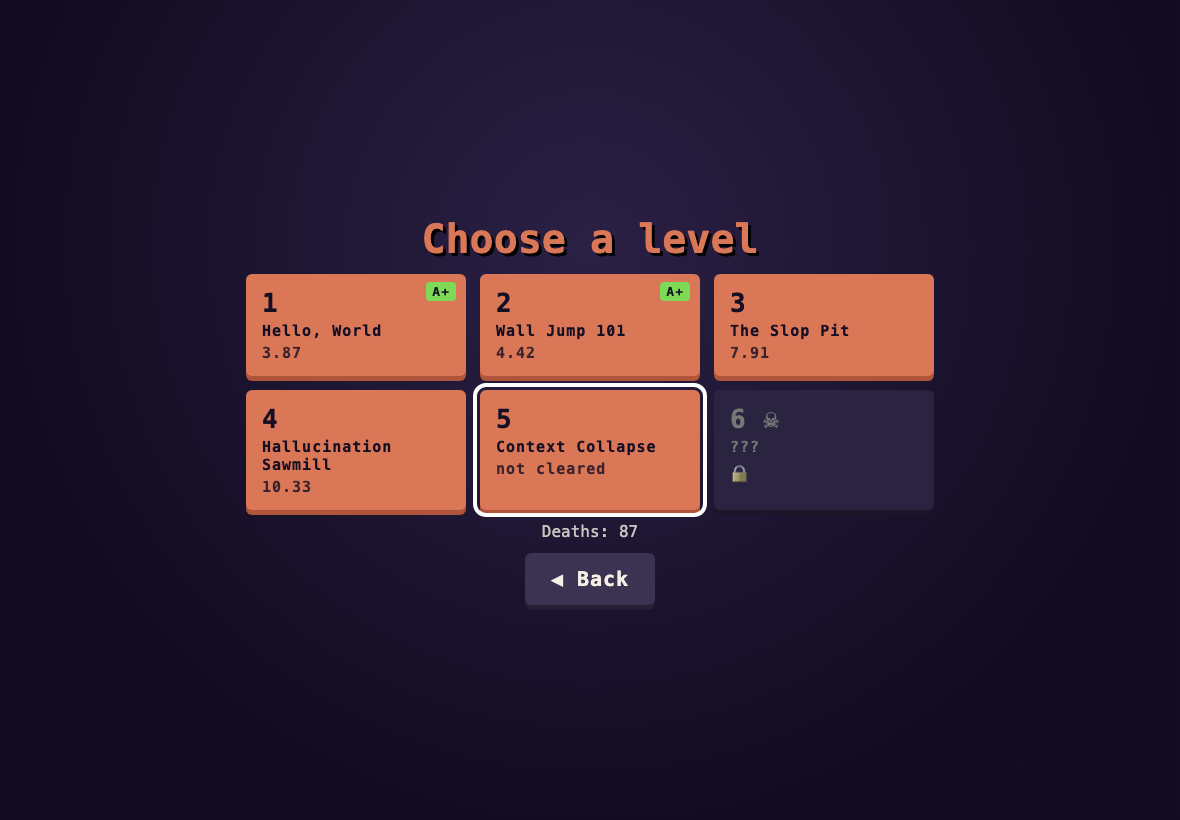
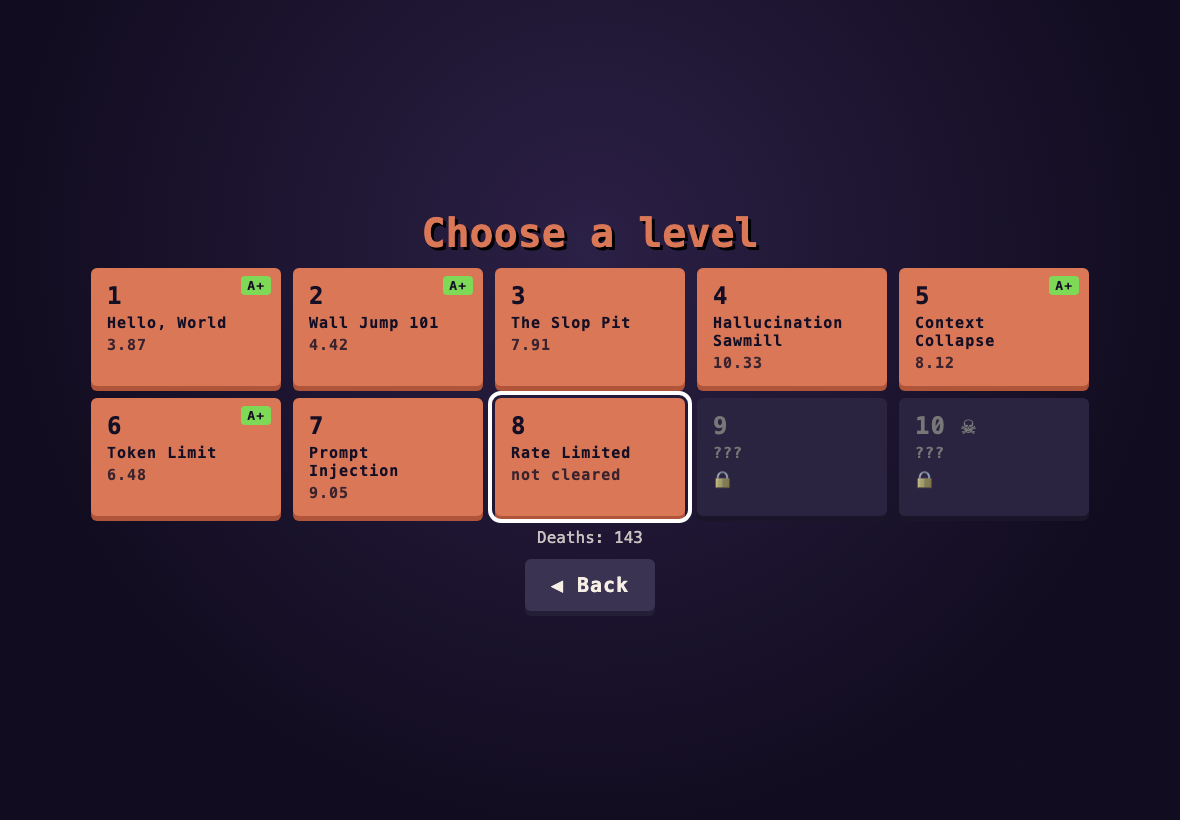
Ten levels: Token Limit, Prompt Injection, Rate Limited, Merge Conflict
- Four new levels before the boss, each with its own theme, music
  track, tips and par time; The Hater moves to level 10
- Solver now replays moving saws and walkers on the game's timeline
- Level select is a 5x2 grid; levels you've cleared stay unlocked
- README: level table and a 'How it's built' section on the code
- Bump cache to v8

Changed region(s): [[0.061, 0.2439, 0.9458, 0.7622], [0.7627, 0.5183, 0.8237, 0.5488], [0.7627, 0.5793, 0.7932, 0.6098]]

diff --git a/src/levels.js b/src/levels.js
@@ -155,6 +155,170 @@ export const LEVELS = [
     ],
   },
   {
+    id: 'token-limit',
+    tips: [
+      "Climb the right-hand shaft by jumping between its two walls.",
+      "Near the saw in the shaft, kick off the left wall only.",
+      "At the top, wait for the circling saw to swing away before you cross.",
+    ],
+    name: "Token Limit",
+    hint: "Climb before you run out of context.",
+    theme: 6,
+    par: 7.0,
+    saws: [
+      {orbit:  [11,  8],  radius:  2,  speed:  2.2},
+    ],
+    map: [
+      '######################',
+      '#....................#',
+      '#............G.......#',
+      '#.........######.....#',
+      '#....................#',
+      '#....###.............#',
+      '#....................#',
+      '###..................#',
+      '#....................#',
+      '#....###.............#',
+      '#....................#',
+      '#.........###........#',
+      '#...............#....#',
+      '#...............#....#',
+      '#...............#....#',
+      '#...............#....#',
+      '#...............#....#',
+      '#...............#....#',
+      '#...............#...o#',
+      '#...............#....#',
+      '#...............#....#',
+      '#...............#....#',
+      '#...............#....#',
+      '#...............#....#',
+      '#...............#....#',
+      '#................#####',
+      '#....................#',
+      '#...........###......#',
+      '#....................#',
+      '#......###...........#',
+      '#....................#',
+      '#S...................#',
+      '#####^^^^^^^^^^^^#####',
+      '######################',
+    ],
+  },
+  {
+    id: 'prompt-injection',
+    tips: [
+      "Jump over walkers as they turn around, not when they're coming at you.",
+      "Watch the saw over the second pit: go when it's at the top.",
+      "The sideways saw over the wide pit is fastest to pass right behind it.",
+    ],
+    name: "Prompt Injection",
+    hint: "Ignore all previous instructions. Run.",
+    theme: 7,
+    par: 7.5,
+    saws: [
+      {path:  [[24,  9],  [24,  13]],  speed:  60},
+      {path:  [[35,  11],  [42,  11]],  speed:  70},
+    ],
+    map: [
+      '################################################################',
+      '#..............................................................#',
+      '#..............................................................#',
+      '#..............................................................#',
+      '#..............................................................#',
+      '#..............................................................#',
+      '#..............................................................#',
+      '#..............................................................#',
+      '#..............................................................#',
+      '#.............................b.............................G..#',
+      '#...........................#####........................#######',
+      '#..............................................................#',
+      '#....................................................##........#',
+      '#S....p..........b.............p..............b................#',
+      '##########^^^^########^^^^^#########^^^^^^########^^^^^#########',
+      '################################################################',
+    ],
+  },
+  {
+    id: 'rate-limited',
+    tips: [
+      "Crumbling blocks give way fast. Jump the moment you land.",
+      "The two solid ledges are your only safe rest stops.",
+      "Time the circling saws from the solid ledges, then go.",
+    ],
+    name: "Rate Limited",
+    hint: "Too many requests. Don\u2019t stop on the blocks.",
+    theme: 8,
+    par: 7.0,
+    saws: [
+      {orbit:  [24,  8],  radius:  2,  speed:  2.5},
+      {orbit:  [40,  10],  radius:  2.5,  speed:  2.0,  phase:  1.5},
+    ],
+    map: [
+      '############################################################',
+      '#..........................................................#',
+      '#..........................................................#',
+      '#..........................................................#',
+      '#..........................................................#',
+      '#..........................................................#',
+      '#..........................................................#',
+      '#..........................................................#',
+      '#..........................................................#',
+      '#..........................................................#',
+      '#..........................................................#',
+      '#..........................cc.............###..............#',
+      '#...............cc...###........cc.............cc..........#',
+      '#..........cc........................cc....................#',
+      '#.....cc...........................................cc......#',
+      '#S.......................................................G.#',
+      '####^^^^^^^^^^^^^^^^^^^^^^^^^^^^^^^^^^^^^^^^^^^^^^^^^^######',
+      '############################################################',
+    ],
+  },
+  {
+    id: 'merge-conflict',
+    tips: [
+      "Hop the platforms over the slop, and wait for the blob to walk away.",
+      "Enter the shaft from below its left wall, then climb the left side past the saw.",
+      "At the top, jump the protester when the sweeping saw is on the far side.",
+    ],
+    name: "Merge Conflict",
+    hint: "Everything at once. Resolve it.",
+    theme: 9,
+    par: 9.0,
+    saws: [
+      {path:  [[31,  5],  [40,  5]],  speed:  70},
+    ],
+    map: [
+      '################################################',
+      '#..............................................#',
+      '#..............................................#',
+      '#..............................................#',
+      '#..............................................#',
+      '#..............................................#',
+      '#..............................................#',
+      '#..............................G....p..........#',
+      '#.............................#############....#',
+      '#.........................................#....#',
+      '#.........................................#....#',
+      '#.........................................#....#',
+      '#.........................................#....#',
+      '#.........................................#....#',
+      '#.........................................#....#',
+      '#.........................................#...o#',
+      '#.........................................#....#',
+      '#.........................................#....#',
+      '#.........................................#....#',
+      '#...............###.........###...........#....#',
+      '#......................b..................#....#',
+      '#.........###.........###.................#....#',
+      '#..............................................#',
+      '#S.............................................#',
+      '########^^^^^^^^^^^^^^^^^^^^^^^^^^^^^^##########',
+      '################################################',
+    ],
+  },
+  {
     id: 'the-hater',
     tips: [
       "The Hater only throws when you get close, and he aims where you're heading.",

diff --git a/src/music.js b/src/music.js
@@ -51,6 +51,30 @@ const TRACKS = {
     mel: ['C5 - Eb5 - G5 - - Eb5', 'Ab4 - C5 - Eb5 - - C5', 'Bb4 - D5 - F5 - - D5', 'B4 - D5 - G5 - - -',
       'G5 - Eb5 C5 - G5 Ab5 G5', 'Ab5 - Eb5 C5 - Ab4 C5 Eb5', 'F5 - D5 Bb4 - F5 G5 F5', 'D5 - B4 - G4 - - -'],
   },
+  'token-limit': {
+    bpm: 148, chords: 'Am Em F G', arp: true,
+    bass: 'x.x.x.x.o.x.x.x.', k: 'x...x...x...x...', s: '....x.......x...', h: 'x.x.x.x.x.x.x.x.',
+    mel: ['A5 - E5 - A5 B5 C6 -', 'B5 - G5 - E5 - G5 -', 'A5 - F5 - C5 - F5 A5', 'G5 - - D5 G5 - B5 -',
+      'C6 - B5 A5 - E5 A5 -', 'B5 - A5 G5 - E5 - -', 'F5 A5 C6 - A5 - F5 -', 'G5 - B5 - D6 - - -'],
+  },
+  'prompt-injection': {
+    bpm: 136, chords: 'Dm Am Bb C', arp: false,
+    bass: 'x..x..x.x..x..x.', k: 'x..x..x.x.......', s: '....x.......x...', h: 'x.x.x.x.x.x.x.xx',
+    mel: ['D5 - F5 - A5 - . D6', 'C6 - A5 - E5 - . A5', 'Bb5 - F5 - D5 - F5 -', 'C6 - G5 - E5 - C5 -',
+      'D5 E5 F5 - A5 - G5 F5', 'E5 - C5 - A4 - - -', 'D5 F5 Bb5 - A5 G5 F5 -', 'G5 - E5 - C6 - - -'],
+  },
+  'rate-limited': {
+    bpm: 156, chords: 'Em G D C', arp: true,
+    bass: 'x.x.x.x.x.x.x.x.', k: 'x...x...x...x...', s: '....x.......x...', h: 'xxxxxxxxxxxxxxxx',
+    mel: ['E5 G5 B5 - G5 - E5 -', 'D5 G5 B5 - D6 - B5 -', 'D5 F#5 A5 - F#5 - D5 -', 'C5 E5 G5 - E5 - C5 -',
+      'B5 - A5 G5 - E5 G5 -', 'B5 - D6 - B5 - G5 -', 'A5 - F#5 D5 - A5 F#5 -', 'G5 - E5 - C5 - E5 -'],
+  },
+  'merge-conflict': {
+    bpm: 164, chords: 'F#m D A E', arp: true,
+    bass: 'x.xxx.x.x.xxx.x.', k: 'x..x..x...x..x..', s: '....x.......x...', h: 'x.xxx.xxx.xxx.xx',
+    mel: ['F#5 - A5 - C#6 - A5 F#5', 'D5 - F#5 - A5 - D6 -', 'C#6 - A5 - E5 - A5 -', 'B5 - G#5 - E5 - B4 -',
+      'F#5 A5 C#6 - E6 - C#6 A5', 'F#5 - D5 - A4 - D5 -', 'E5 - A5 - C#6 - E6 -', 'G#5 - B5 - E6 - - -'],
+  },
   'the-hater': {
     bpm: 172, chords: 'Em C Am B', arp: true,
     bass: 'xoxoxoxoxoxoxoxo', k: 'x..xx...x..xx...', s: '....x.......x...', h: 'xxxxxxxxxxxxxxxx',

diff --git a/style.css b/style.css
@@ -63,12 +63,12 @@ h2 { margin: 0; font-size: clamp(26px, 4vw, 40px); color: var(--orange); text-sh
 .row { display: flex; gap: 14px; margin-top: 10px; flex-wrap: wrap; justify-content: center; }
 .col { display: flex; flex-direction: column; gap: 14px; min-width: 260px; }
 
-#level-grid { display: grid; grid-template-columns: repeat(3, minmax(160px, 220px)); gap: 14px; }
+#level-grid { display: grid; grid-template-columns: repeat(5, minmax(120px, 190px)); gap: 12px; }
 .level-card {
   position: relative; display: flex; flex-direction: column; align-items: flex-start; gap: 4px;
   padding: 14px 16px; text-align: left; font-size: 15px; min-height: 96px;
 }
-.level-card .num { font-size: 26px; }
+.level-card .num { font-size: 24px; }
 .level-card .time { font-weight: 600; opacity: 0.8; }
 .level-card .grade { position: absolute; top: 8px; right: 10px; background: #7ed957; color: var(--ink); padding: 2px 6px; border-radius: 4px; font-size: 13px; }
 .level-card.locked { background: #2a2440; color: #777; box-shadow: 0 5px 0 #1a1528; cursor: default; }
@@ -142,8 +142,8 @@ h2 { margin: 0; font-size: clamp(26px, 4vw, 40px); color: var(--orange); text-sh
   .disclaimer { font-size: 10px; margin: 0; }
   .controls, .story { font-size: 11px; }
   #title-hero { width: 70px; height: 60px; }
-  #level-grid { grid-template-columns: repeat(3, minmax(130px, 180px)); gap: 8px; }
-  .level-card { min-height: 70px; padding: 8px 10px; }
+  #level-grid { grid-template-columns: repeat(5, minmax(100px, 150px)); gap: 8px; }
+  .level-card { min-height: 64px; padding: 8px 10px; font-size: 12px; }
   .tbtn { width: 84px; height: 84px; }
   #t-right { left: calc(120px + var(--safe-l)); }
   #t-jump { width: 110px; height: 110px; }

diff --git a/src/main.js b/src/main.js
@@ -17,6 +17,10 @@ const THEMES = [
   { sky: ['#24140f', '#4a2a1c'], solid: '#5a3e33', top: '#c48a6a', dot: '#6b4b3f' },
   { sky: ['#101826', '#2a2140'], solid: '#3b3552', top: '#9a8fd0', dot: '#4a4366' },
   { sky: ['#2a0d12', '#4d1a22'], solid: '#4a2a30', top: '#d0707a', dot: '#5c363d' },
+  { sky: ['#0d1f22', '#163a3f'], solid: '#2b4f53', top: '#6fc2bf', dot: '#365f63' },
+  { sky: ['#1a1030', '#3a1d4a'], solid: '#4a2e5c', top: '#c27fd6', dot: '#5a3a6e' },
+  { sky: ['#14161f', '#2a2a3d'], solid: '#3a3a52', top: '#d0a85c', dot: '#47475f' },
+  { sky: ['#101a14', '#1f3326'], solid: '#2f4a38', top: '#8fc98a', dot: '#3a5a44' },
 ];
 const DEATH_LINES = {
   slop: ['Drowned in slop.', 'Too much slop.', 'Slop happens.'],
@@ -148,8 +152,8 @@ function openSelect() {
   grid.innerHTML = '';
   LEVELS.forEach((def, i) => {
     const b = document.createElement('button');
-    const locked = i >= save.unlocked;
     const best = save.best[def.id];
+    const locked = i >= save.unlocked && best == null; // levels you've cleared stay open
     b.className = 'level-card' + (locked ? ' locked' : '') + (best != null && best <= def.par ? ' aplus' : '');
     b.disabled = locked;
     b.innerHTML = `<span class="num">${i + 1}${def.boss ? ' ☠' : ''}</span><span class="name">${locked ? '???' : def.name}</span>`

diff --git a/sw.js b/sw.js
@@ -1,5 +1,5 @@
 // Offline support: serve from cache, refresh the cache in the background.
-const CACHE = 'super-claude-boy-v7';
+const CACHE = 'super-claude-boy-v8';
 const ASSETS = [
   './', './index.html', './style.css', './manifest.webmanifest',
   './src/main.js', './src/physics.js', './src/levels.js', './src/sprites.js', './src/audio.js', './src/input.js', './src/music.js',

diff --git a/index.html b/index.html
@@ -54,7 +54,7 @@
     <p class="sub intro-hint">Tap or press A to continue</p>
   </section>
 
-  <section id="select" class="screen" data-cols="3" hidden>
+  <section id="select" class="screen" data-cols="5" hidden>
     <h2>Choose a level</h2>
     <div id="level-grid"></div>
     <p id="total"></p>

diff --git a/README.md b/README.md
@@ -53,6 +53,89 @@ Die more than three times on a level and the game starts showing tips for it.
 - Each level saves your best time and shows a **ghost** of that run.
 - Beat the par time for an **A+**.
 
+## Levels
+
+Ten levels, then the credits:
+
+| # | Level | What it teaches |
+|---|---|---|
+| 1 | Hello, World | Running, variable-height jumps, the first slop pool |
+| 2 | Wall Jump 101 | Wall slides and wall jumps in two shafts |
+| 3 | The Slop Pit | Slop blobs and protesters that patrol and turn at edges |
+| 4 | Hallucination Sawmill | Static, moving and orbiting saws |
+| 5 | Context Collapse | Crumbling blocks over a slop lake |
+| 6 | Token Limit | A tall climb up a shaft guarded by a saw |
+| 7 | Prompt Injection | A long run past walkers with saws over the pits |
+| 8 | Rate Limited | A chain of crumbling blocks under orbiting saws |
+| 9 | Merge Conflict | Everything at once, right before the boss |
+| 10 | The Hater | The boss throws signs and tomatoes while you climb to Byte |
+
+## How it's built
+
+Plain HTML, CSS and JavaScript (ES modules) drawing on a single `<canvas>`. There is no engine, no framework, no build step and no dependencies: about 2,700 lines in total.
+
+```
+index.html        screens (title, intro, level select, results, pause, ending) as plain HTML
+style.css         layout, touch controls, safe areas for the iPad notch and home bar
+src/main.js       game loop, rendering, camera, screens, saving, ghosts, intro and outro scenes
+src/physics.js    level parsing, movement, collision, saws, walkers, the boss (no DOM)
+src/levels.js     the ten levels as text maps, plus hints, tips and par times
+src/sprites.js    pixel-art sprites written as strings, baked into small canvases at startup
+src/input.js      touch zones, keyboard and gamepad, merged into one input state
+src/audio.js      sound effects synthesized with Web Audio
+src/music.js      the soundtrack: note patterns and a small step sequencer
+sw.js             service worker for offline play
+tools/solve.mjs   proves every level can be finished
+```
+
+### The game loop and physics
+
+- **Fixed timestep.** The simulation always advances in steps of 1/120 of a second, however fast the screen refreshes. Each frame simply draws the latest state. Because each step is identical on every device, the same inputs always produce the same run, which is what makes times fair and ghosts possible.
+- **The timer counts steps, not wall-clock time.** A run's time is `steps × 1/120 s`, so a dropped frame can't cost you a record. The world (saws, walkers) stays frozen until your first input, and the timer starts with it.
+- **Movement** (`stepPlayer` in `src/physics.js`) uses hand-tuned constants in the `P` table: fast acceleration, a run speed cap, stronger gravity when you let go of jump early (short hops), a capped fall speed, slower sliding when you hold toward a wall, and a short lockout after a wall jump so you kick away from the wall.
+- **Forgiveness** is built in the way speedrun platformers do it: *coyote time* (you can still jump for 0.08 s after running off a ledge) and a *jump buffer* (pressing jump up to 0.1 s before landing still counts).
+- **Collision** moves the player along the x axis, resolves against solid tiles, then does the same along y. Hazards use slightly smaller hitboxes than they look, so close calls feel fair.
+
+### Levels are text
+
+Each level in `src/levels.js` is a grid of characters: `#` solid, `^` slop, `c` crumbling block, `o` saw, `b` blob, `p` protester, `H` the boss, `S` start, `G` Byte. Moving saws are listed separately as paths or orbits. Editing a level means editing the map, then running the solver:
+
+```sh
+node tools/solve.mjs          # all levels
+node tools/solve.mjs 5        # just level 6
+node tools/solve.mjs --static # ignore moving hazards
+```
+
+The solver imports the game's real physics and does a breadth-first search over button presses (left, right or neither, with jump held or not, every 1/30 s). It replays the moving saws and walkers on the same timeline as the game, so a level only passes if there's a path that dodges them too. It prints the fastest path it found, which is where the par times come from. It doesn't model the boss's throws, and it treats crumbling blocks as solid.
+
+### Drawing
+
+- **Pixel-perfect scaling.** The camera picks the largest whole-number scale that shows about 15 tiles of height, so every game pixel maps to an exact square of screen pixels: crisp on the iPad's Retina screen, with no seams between tiles.
+- **Sprites are strings.** Claude Boy, Byte, The Hater, protesters and blobs are drawn as rows of characters in `src/sprites.js` (one character per pixel, with a palette), baked once into small canvases and flipped for facing left.
+- **Juice:** squash and stretch on jumps and landings, an orange trail on every surface Claude Boy touches, particles and screen shake on death, a glitch effect on saws, and slop pools that bubble up AI clichés and the occasional six-fingered hand.
+- **Ghosts.** During a run the game records Claude Boy's position every other step. A new best time saves that recording, and the next attempt replays it as a translucent ghost.
+
+### Input
+
+- **Touch** uses one full-screen layer instead of separate buttons: the left half is ◀ ▶ (split at the midpoint between the two buttons, so you can slide your thumb), the right half is jump. Pointer events track every finger independently, and default touch gestures (zoom, text selection, the iOS magnifier) are switched off.
+- **Gamepads** are polled every frame through the Gamepad API (standard mapping: stick or D-pad, A to jump, Y to restart, Start to pause). The game shows a message when a controller connects or disconnects.
+- **Keyboard** works everywhere, and all three drive the menus as well as the game.
+- A jump press is remembered until the next physics step uses it, so a very quick tap between steps is never lost.
+
+### Sound and music
+
+Everything is synthesized live with the Web Audio API. There are no audio files.
+
+- **Sound effects** are short oscillator sweeps and filtered noise.
+- **Music** is written as data in `src/music.js`: each track has a tempo, a chord per bar, an 8th-note melody (`'E5 - G5 -'`) and 16-step bass and drum patterns. A small sequencer schedules notes slightly ahead of time on the audio clock, so the beat stays steady even when the game is busy. Each level has its own track, plus themes for the title and the ending.
+- iOS only allows audio after a tap, so the audio context starts on your first touch or key press.
+
+### Offline and installable
+
+- `manifest.webmanifest` and the Apple meta tags make it installable full screen, in landscape, with its own icon (generated by `tools/make-icons.py` with pure Python).
+- `sw.js` caches every file on first load and serves from the cache afterwards, refreshing it in the background. Bumping `CACHE` in `sw.js` is what makes installed copies pick up a new version.
+- Progress (best times, ghosts, unlocked levels, death count, settings) lives in `localStorage` on the device.
+
 ## Development
 
 No build step. Serve the folder and open it:
@@ -62,9 +145,6 @@ python3 -m http.server 8080
 # open http://localhost:8080/        (append ?play=3 to jump straight into level 3)
 ```
 
-- `src/levels.js`: levels as ASCII maps (legend at the top of the file)
-- `src/music.js`: the soundtrack, written as note patterns (one track per level plus the title theme)
-- `src/physics.js`: movement and collision (no DOM; also used by the solver)
-- `node tools/solve.mjs`: brute-force check that every level is beatable, with an approximate best time
-- `python3 tools/make-icons.py`: regenerates the PWA icons
-- Bump `CACHE` in `sw.js` when you ship changes so installed copies update.
+- Run `node tools/solve.mjs` after changing a level.
+- Bump `CACHE` in `sw.js` when you ship changes, so installed copies update.
+- `python3 tools/make-icons.py` regenerates the icons.
